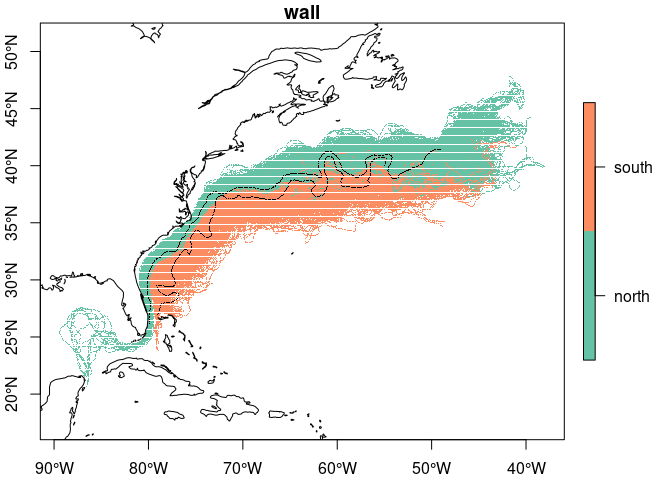
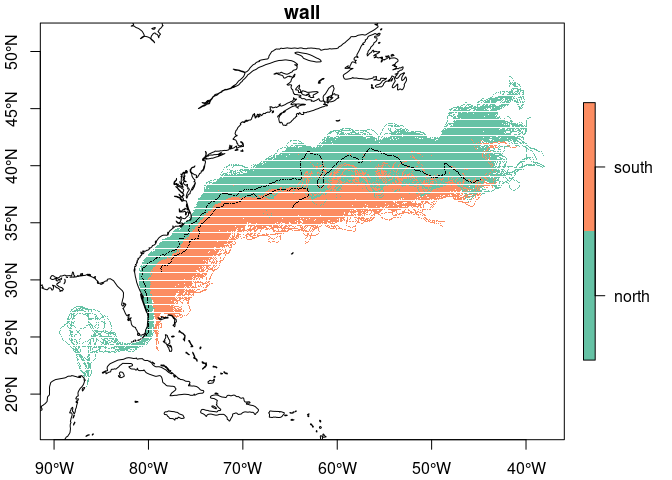
Tidy the data download, add plot_week(), update README

diff --git a/README.md b/README.md
@@ -328,7 +328,7 @@ x = read_usn(what = "orig") |>
   dplyr::glimpse()
 ```
 
-    ## Rows: 3,905
+    ## Rows: 4,139
     ## Columns: 3
     ## $ date <date> 2010-01-22, 2010-01-22, 2010-01-25, 2010-01-25, 2010-01-27, 2010…
     ## $ wall <chr> "north", "south", "north", "south", "north", "south", "north", "s…
@@ -414,3 +414,16 @@ plot(sf::st_geometry(do), type = "l", add = TRUE, col = "orange")
 ```
 
 ![](README_files/figure-gfm/unnamed-chunk-16-1.png)<!-- -->
+
+Here we can look at all of the data for a particular week of the year,
+with most recent data superimposed.
+
+``` r
+source("inst/explore/usn_plotly.R")
+plot_week()
+```
+
+    ## Warning: attribute variables are assumed to be spatially constant throughout
+    ## all geometries
+
+![](README_files/figure-gfm/unnamed-chunk-17-1.png)<!-- -->
